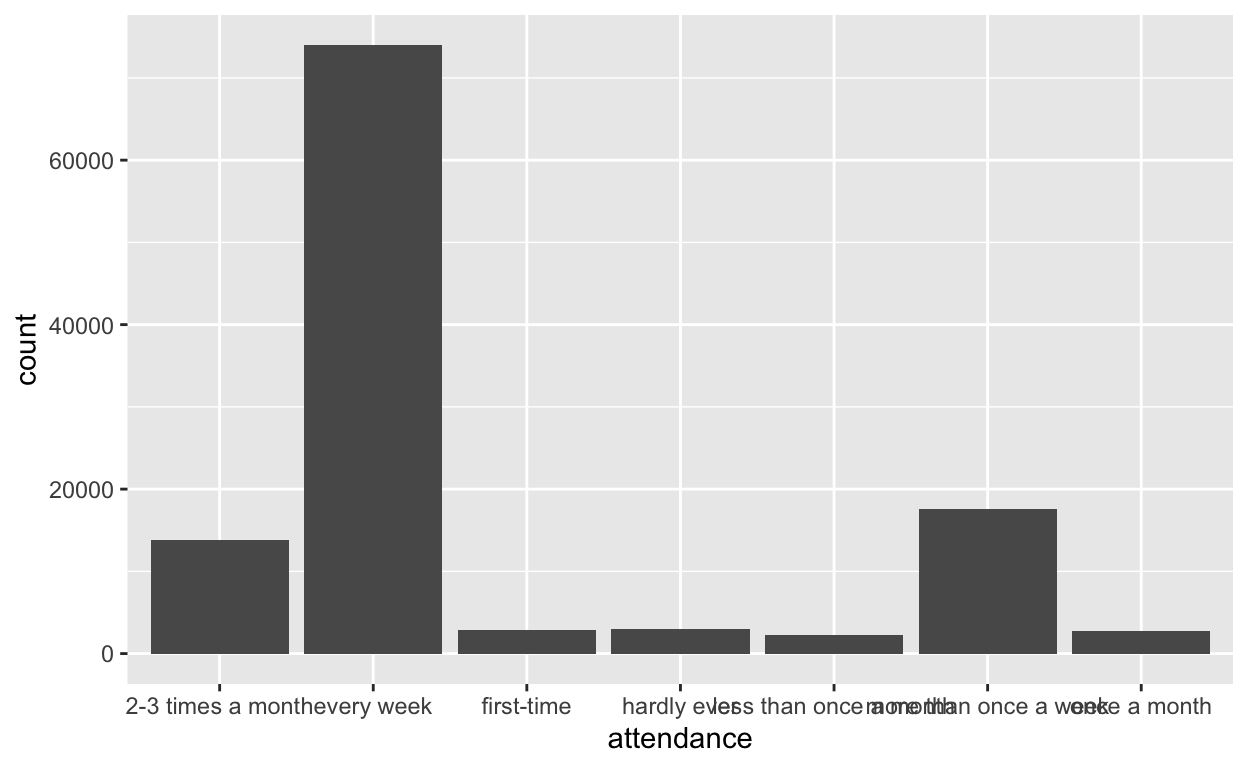
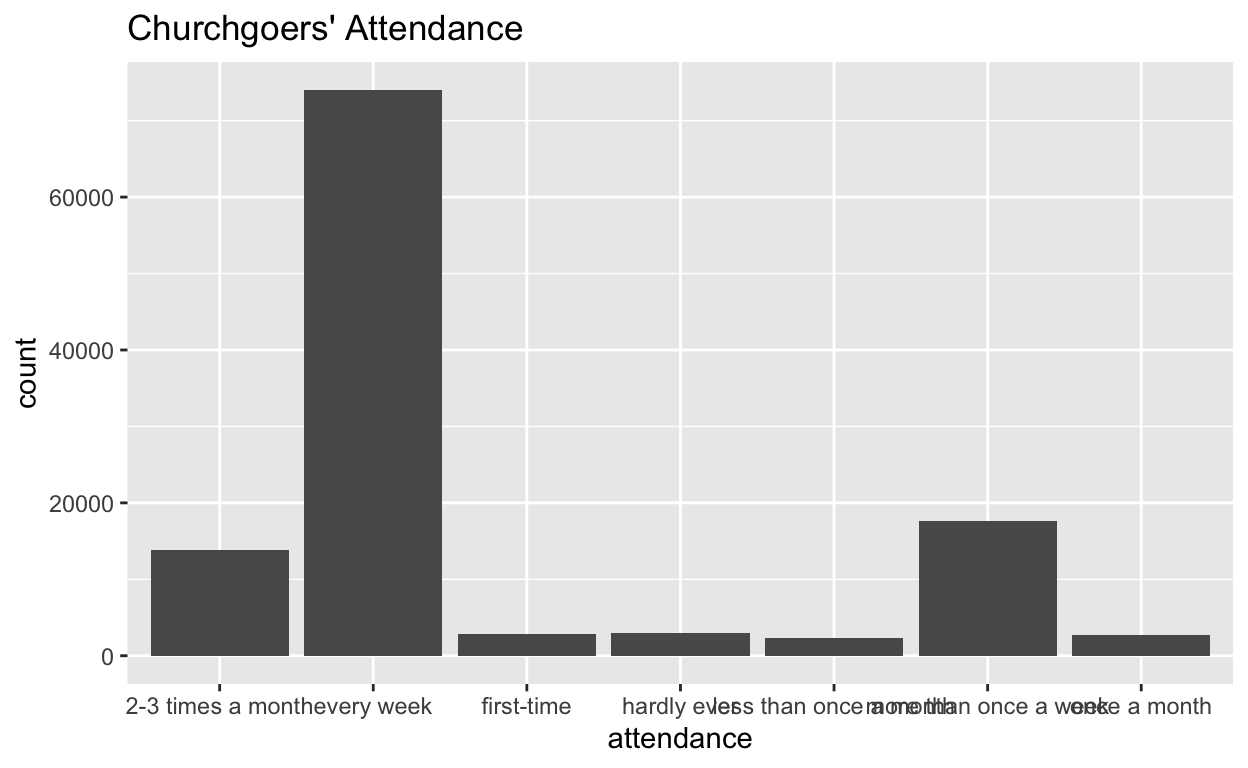
titles

diff --git a/index.html b/index.html
@@ -1546,7 +1546,7 @@ code span.wa { color: #5e5e5e; font-style: italic; } /* Warning */
 <span>          </span>
 <span></span>
 <span><span class='fu'><a href='https://ggplot2.tidyverse.org/reference/ggplot.html'>ggplot</a></span><span class='op'>(</span>data <span class='op'>=</span> <span class='va'>mydata</span>, mapping <span class='op'>=</span> <span class='fu'><a href='https://ggplot2.tidyverse.org/reference/aes.html'>aes</a></span><span class='op'>(</span>x <span class='op'>=</span> <span class='va'>attendance</span><span class='op'>)</span><span class='op'>)</span> <span class='op'>+</span></span>
-<span>  <span class='fu'><a href='https://ggplot2.tidyverse.org/reference/geom_bar.html'>geom_bar</a></span><span class='op'>(</span><span class='op'>)</span></span></code></pre>
+<span>  <span class='fu'><a href='https://ggplot2.tidyverse.org/reference/geom_bar.html'>geom_bar</a></span><span class='op'>(</span><span class='op'>)</span> <span class='op'>+</span> <span class='fu'><a href='https://ggplot2.tidyverse.org/reference/labs.html'>labs</a></span><span class='op'>(</span>title<span class='op'>=</span> <span class='st'>"Churchgoers' Attendance"</span><span class='op'>)</span></span></code></pre>
 </div>
 <p><img src="index_files/figure-html5/unnamed-chunk-2-1.png" width="624" /></p>
 </div>
@@ -1667,7 +1667,7 @@ code span.wa { color: #5e5e5e; font-style: italic; } /* Warning */
 <span>  <span class='fu'><a href='https://ggplot2.tidyverse.org/reference/geom_path.html'>geom_line</a></span><span class='op'>(</span><span class='fu'><a href='https://ggplot2.tidyverse.org/reference/aes.html'>aes</a></span><span class='op'>(</span>y <span class='op'>=</span> <span class='va'>avg_scp</span><span class='op'>)</span>, color<span class='op'>=</span><span class='st'>"purple"</span><span class='op'>)</span> <span class='op'>+</span></span>
 <span>   <span class='fu'><a href='https://ggplot2.tidyverse.org/reference/geom_path.html'>geom_line</a></span><span class='op'>(</span><span class='fu'><a href='https://ggplot2.tidyverse.org/reference/aes.html'>aes</a></span><span class='op'>(</span>y <span class='op'>=</span> <span class='va'>avg_OJ</span><span class='op'>)</span>, color<span class='op'>=</span><span class='st'>"red"</span><span class='op'>)</span> <span class='op'>+</span></span>
 <span>  <span class='fu'><a href='https://ggplot2.tidyverse.org/reference/labs.html'>labs</a></span><span class='op'>(</span>x<span class='op'>=</span> <span class='st'>"Church Attendance"</span>, y<span class='op'>=</span> <span class='st'>"Average That Did Good Act"</span>,</span>
-<span>       color<span class='op'>=</span> <span class='st'>"Legend"</span><span class='op'>)</span> <span class='op'>+</span></span>
+<span>       color<span class='op'>=</span> <span class='st'>"Legend"</span>, title <span class='op'>=</span> <span class='st'>"Church Attendance and Average that Did Deed"</span><span class='op'>)</span> <span class='op'>+</span></span>
 <span>    <span class='fu'><a href='https://ggplot2.tidyverse.org/reference/scale_manual.html'>scale_color_manual</a></span><span class='op'>(</span>values <span class='op'>=</span> <span class='va'>colors</span><span class='op'>)</span></span></code></pre>
 </div>
 <p><img src="index_files/figure-html5/unnamed-chunk-4-1.png" width="624" /></p>
